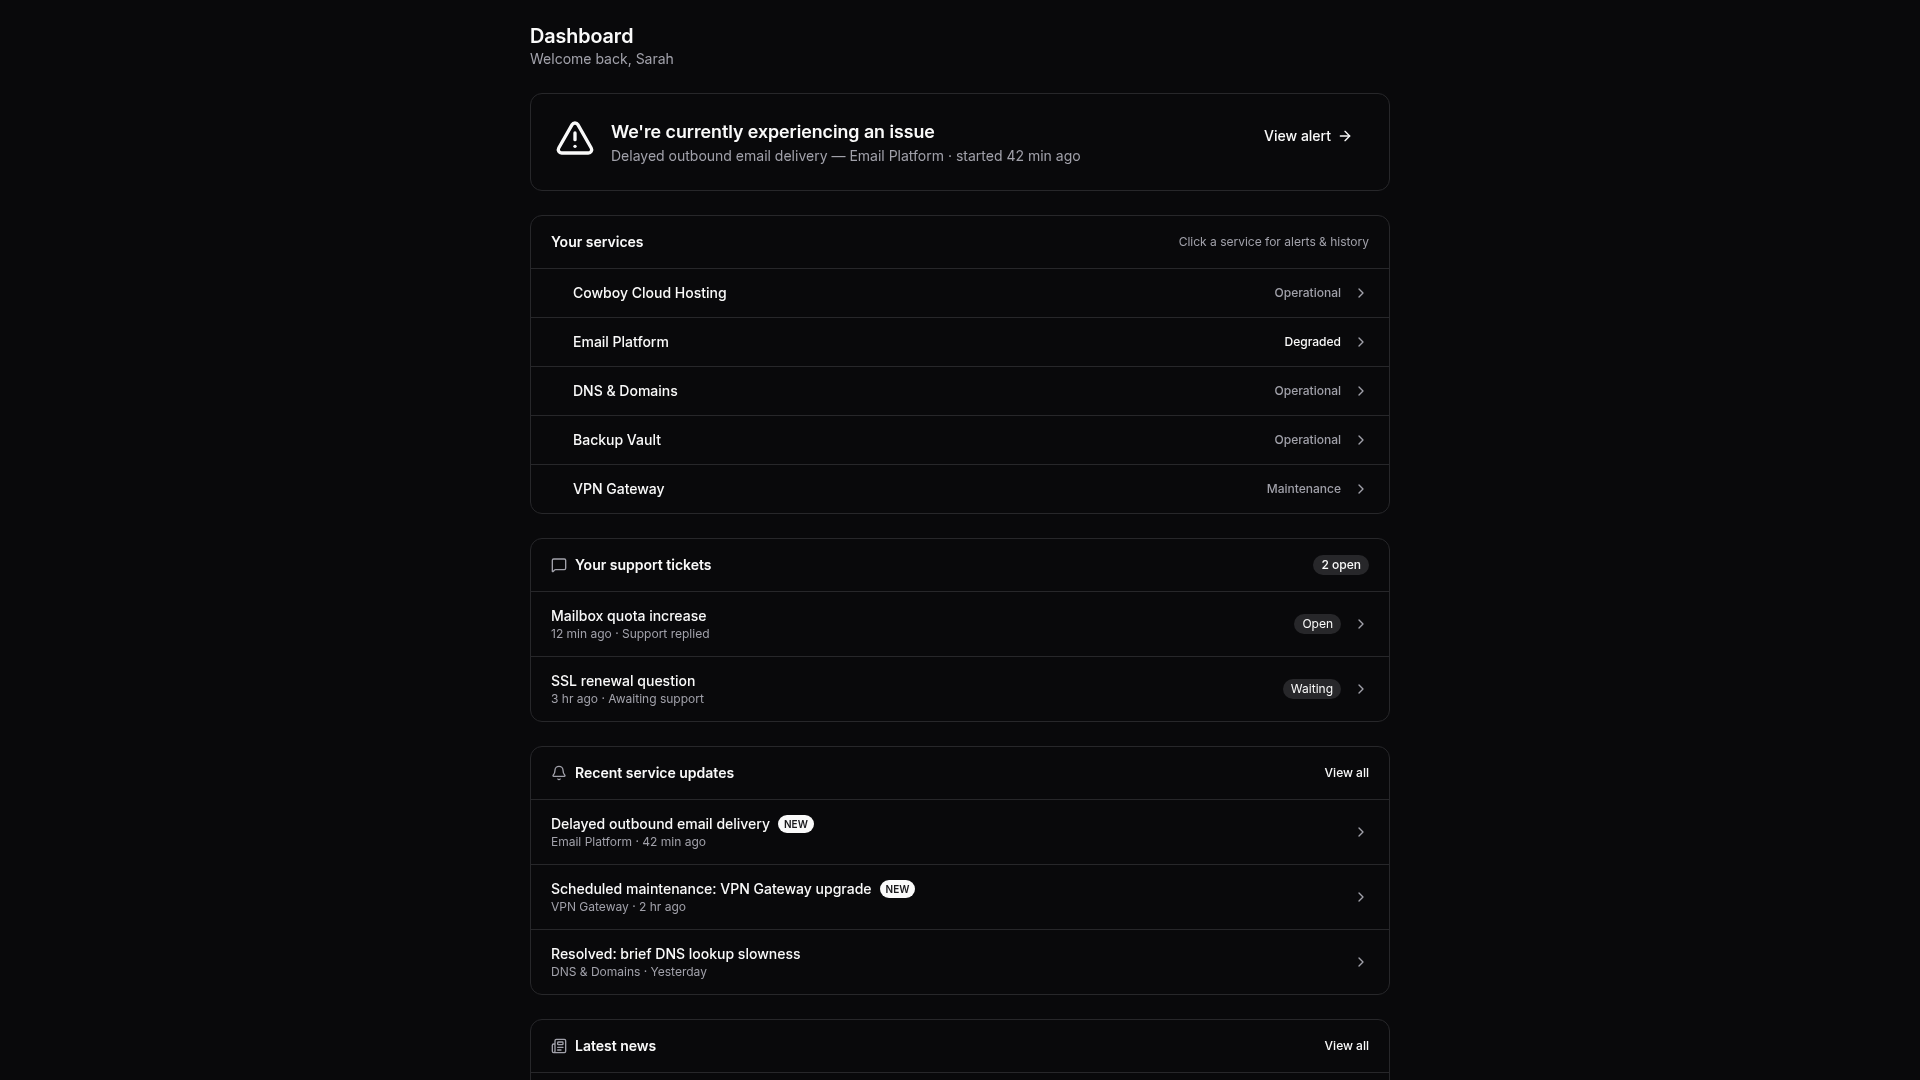
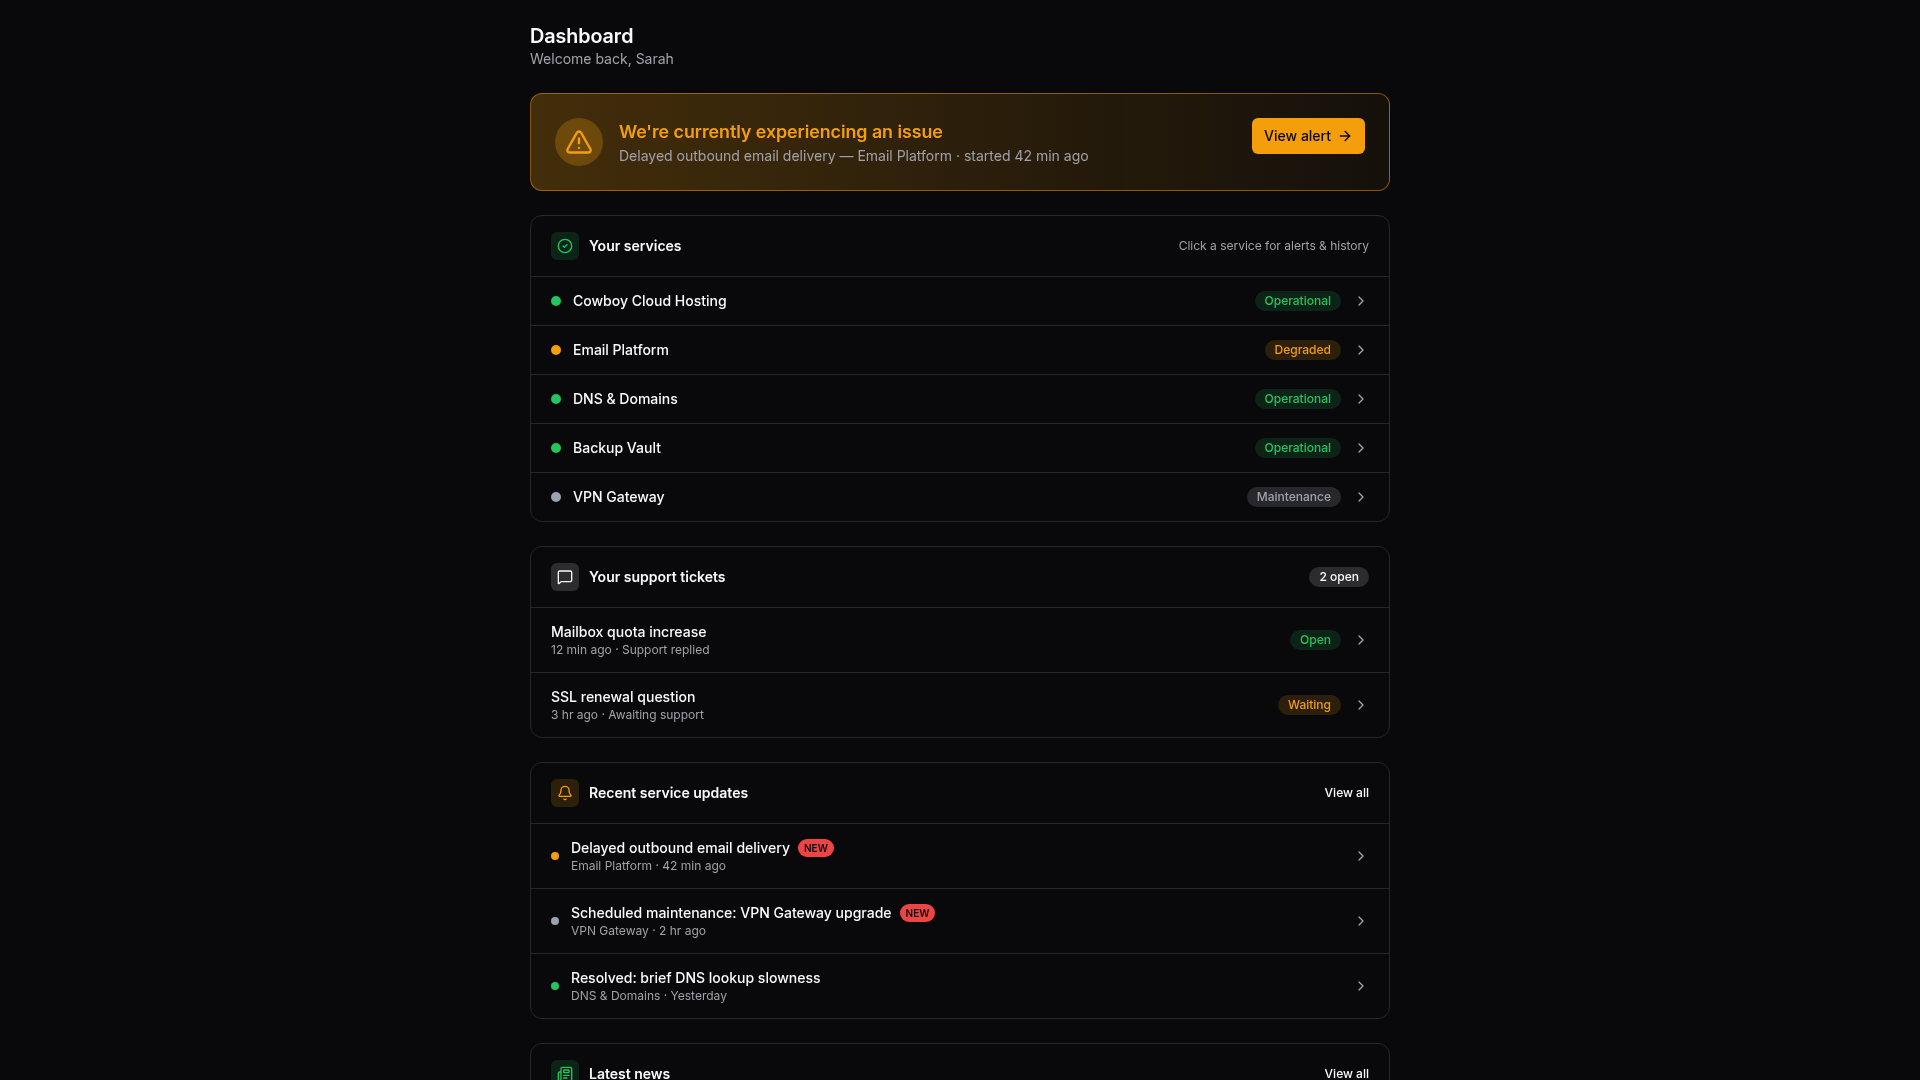
Add color accents and visual indicators to service status displays
Update HeroStack.tsx to use new status color tokens and add colored pills for service statuses, ticket statuses, and section icons. Update index.css to define missing status color tokens in the sandbox theme.

Replit-Commit-Author: Agent
Replit-Commit-Session-Id: 031383e8-37e1-48d9-ac85-29dcf789e9ce
Replit-Commit-Checkpoint-Type: full_checkpoint
Replit-Commit-Event-Id: e11772f9-e29c-46a5-b367-c7bff2973100
Replit-Commit-Screenshot-Url: https://storage.googleapis.com/screenshot-production-us-central1/ab026dec-2b21-4386-8a82-ad60aa66a512/031383e8-37e1-48d9-ac85-29dcf789e9ce/FnDSZTG
Replit-Helium-Checkpoint-Created: true

diff --git a/artifacts/mockup-sandbox/src/components/mockups/dashboard-v2/HeroStack.tsx b/artifacts/mockup-sandbox/src/components/mockups/dashboard-v2/HeroStack.tsx
@@ -17,20 +17,53 @@ import {
   type ServiceStatus,
 } from "./_data";
 
-const statusMeta: Record<ServiceStatus, { label: string; dot: string; text: string }> = {
-  operational: { label: "Operational", dot: "bg-status-online", text: "text-muted-foreground" },
-  degraded: { label: "Degraded", dot: "bg-status-away", text: "text-status-away" },
-  outage: { label: "Outage", dot: "bg-status-busy", text: "text-status-busy" },
-  maintenance: { label: "Maintenance", dot: "bg-status-offline", text: "text-muted-foreground" },
+const statusMeta: Record<
+  ServiceStatus,
+  { label: string; dot: string; pill: string }
+> = {
+  operational: {
+    label: "Operational",
+    dot: "bg-status-online",
+    pill: "bg-status-online/15 text-status-online",
+  },
+  degraded: {
+    label: "Degraded",
+    dot: "bg-status-away",
+    pill: "bg-status-away/15 text-status-away",
+  },
+  outage: {
+    label: "Outage",
+    dot: "bg-status-busy",
+    pill: "bg-status-busy/15 text-status-busy",
+  },
+  maintenance: {
+    label: "Maintenance",
+    dot: "bg-status-offline",
+    pill: "bg-status-offline/20 text-muted-foreground",
+  },
+};
+
+const ticketStatusPill: Record<string, string> = {
+  open: "bg-status-online/15 text-status-online",
+  waiting: "bg-status-away/15 text-status-away",
+  resolved: "bg-muted text-muted-foreground",
 };
 
 const serviceUpdates = [
-  { id: "u1", title: "Delayed outbound email delivery", service: "Email Platform", when: "42 min ago", isNew: true },
-  { id: "u2", title: "Scheduled maintenance: VPN Gateway upgrade", service: "VPN Gateway", when: "2 hr ago", isNew: true },
-  { id: "u3", title: "Resolved: brief DNS lookup slowness", service: "DNS & Domains", when: "Yesterday", isNew: false },
+  { id: "u1", title: "Delayed outbound email delivery", service: "Email Platform", when: "42 min ago", isNew: true, tone: "bg-status-away" },
+  { id: "u2", title: "Scheduled maintenance: VPN Gateway upgrade", service: "VPN Gateway", when: "2 hr ago", isNew: true, tone: "bg-status-offline" },
+  { id: "u3", title: "Resolved: brief DNS lookup slowness", service: "DNS & Domains", when: "Yesterday", isNew: false, tone: "bg-status-online" },
 ];
 
 const newsWithFlags = news.map((n, i) => ({ ...n, isNew: i === 0 }));
+
+function SectionIcon({ icon: Icon, tone }: { icon: typeof Bell; tone: string }) {
+  return (
+    <span className={`inline-flex h-7 w-7 items-center justify-center rounded-md ${tone}`}>
+      <Icon className="h-4 w-4" />
+    </span>
+  );
+}
 
 export function HeroStackPage({ allClear }: { allClear: boolean }) {
   const shownServices = services.filter((s) => s.subscribed);
@@ -52,10 +85,12 @@ export function HeroStackPage({ allClear }: { allClear: boolean }) {
         {/* Hero */}
         {allClear ? (
           <div
-            className="rounded-xl border border-status-online/40 bg-status-online/10 p-6 flex items-center gap-4"
+            className="rounded-xl border border-status-online/50 bg-gradient-to-r from-status-online/25 via-status-online/15 to-status-online/5 p-6 flex items-center gap-4"
             data-testid="hero-status"
           >
-            <CheckCircle2 className="h-10 w-10 text-status-online shrink-0" />
+            <span className="flex h-12 w-12 shrink-0 items-center justify-center rounded-full bg-status-online/25">
+              <CheckCircle2 className="h-7 w-7 text-status-online" />
+            </span>
             <div>
               <p className="text-lg font-semibold text-status-online">All services are running smoothly</p>
               <p className="text-sm text-muted-foreground">
@@ -65,11 +100,13 @@ export function HeroStackPage({ allClear }: { allClear: boolean }) {
           </div>
         ) : (
           <div
-            className="rounded-xl border border-status-away/40 bg-status-away/10 p-6"
+            className="rounded-xl border border-status-away/50 bg-gradient-to-r from-status-away/25 via-status-away/15 to-status-away/5 p-6"
             data-testid="hero-status"
           >
             <div className="flex items-start gap-4">
-              <AlertTriangle className="h-10 w-10 text-status-away shrink-0" />
+              <span className="flex h-12 w-12 shrink-0 items-center justify-center rounded-full bg-status-away/25">
+                <AlertTriangle className="h-7 w-7 text-status-away" />
+              </span>
               <div className="min-w-0 flex-1">
                 <p className="text-lg font-semibold text-status-away">
                   We're currently experiencing an issue
@@ -78,7 +115,7 @@ export function HeroStackPage({ allClear }: { allClear: boolean }) {
                   {firstAlert.title} — {firstAlert.serviceNames.join(", ")} · started {firstAlert.startedAgo}
                 </p>
               </div>
-              <button className="shrink-0 inline-flex items-center gap-1.5 rounded-md bg-status-away/20 px-3 py-2 text-sm font-medium text-status-away hover:bg-status-away/30">
+              <button className="shrink-0 inline-flex items-center gap-1.5 rounded-md bg-status-away px-3 py-2 text-sm font-medium text-background hover:bg-status-away/90">
                 View alert <ArrowRight className="h-4 w-4" />
               </button>
             </div>
@@ -86,9 +123,12 @@ export function HeroStackPage({ allClear }: { allClear: boolean }) {
         )}
 
         {/* Services */}
-        <section className="rounded-xl border border-border bg-card">
+        <section className="rounded-xl border border-border bg-card overflow-hidden">
           <div className="flex items-center justify-between px-5 py-4 border-b border-border">
-            <h2 className="text-sm font-semibold">Your services</h2>
+            <h2 className="text-sm font-semibold flex items-center gap-2.5">
+              <SectionIcon icon={CheckCircle2} tone="bg-status-online/15 text-status-online" />
+              Your services
+            </h2>
             <span className="text-xs text-muted-foreground">Click a service for alerts &amp; history</span>
           </div>
           <ul className="divide-y divide-border">
@@ -99,7 +139,9 @@ export function HeroStackPage({ allClear }: { allClear: boolean }) {
                   <button className="w-full flex items-center gap-3 px-5 py-3.5 text-left hover:bg-muted/50">
                     <span className={`h-2.5 w-2.5 rounded-full ${meta.dot} shrink-0`} />
                     <span className="flex-1 min-w-0 truncate text-sm font-medium">{s.name}</span>
-                    <span className={`text-xs font-medium ${meta.text}`}>{meta.label}</span>
+                    <span className={`rounded-full px-2.5 py-0.5 text-xs font-medium ${meta.pill}`}>
+                      {meta.label}
+                    </span>
                     <ChevronRight className="h-4 w-4 text-muted-foreground shrink-0" />
                   </button>
                 </li>
@@ -109,13 +151,16 @@ export function HeroStackPage({ allClear }: { allClear: boolean }) {
         </section>
 
         {/* Tickets */}
-        <section className="rounded-xl border border-border bg-card">
+        <section className="rounded-xl border border-border bg-card overflow-hidden">
           <div className="flex items-center justify-between px-5 py-4 border-b border-border">
-            <h2 className="text-sm font-semibold flex items-center gap-2">
-              <MessageSquare className="h-4 w-4 text-muted-foreground" /> Your support tickets
+            <h2 className="text-sm font-semibold flex items-center gap-2.5">
+              <SectionIcon icon={MessageSquare} tone="bg-primary/15 text-primary" />
+              Your support tickets
             </h2>
             {openTickets.length > 0 && (
-              <span className="rounded-full bg-muted px-2 py-0.5 text-xs font-medium">{openTickets.length} open</span>
+              <span className="rounded-full bg-primary/15 px-2.5 py-0.5 text-xs font-medium text-primary">
+                {openTickets.length} open
+              </span>
             )}
           </div>
           {openTickets.length === 0 ? (
@@ -136,7 +181,9 @@ export function HeroStackPage({ allClear }: { allClear: boolean }) {
                         {t.lastActivity} · {t.lastMessageFrom === "support" ? "Support replied" : "Awaiting support"}
                       </p>
                     </div>
-                    <span className="rounded-full bg-muted px-2 py-0.5 text-xs capitalize">{t.status}</span>
+                    <span className={`rounded-full px-2.5 py-0.5 text-xs font-medium capitalize ${ticketStatusPill[t.status]}`}>
+                      {t.status}
+                    </span>
                     <ChevronRight className="h-4 w-4 text-muted-foreground shrink-0" />
                   </button>
                 </li>
@@ -146,10 +193,11 @@ export function HeroStackPage({ allClear }: { allClear: boolean }) {
         </section>
 
         {/* Service updates */}
-        <section className="rounded-xl border border-border bg-card">
+        <section className="rounded-xl border border-border bg-card overflow-hidden">
           <div className="flex items-center justify-between px-5 py-4 border-b border-border">
-            <h2 className="text-sm font-semibold flex items-center gap-2">
-              <Bell className="h-4 w-4 text-muted-foreground" /> Recent service updates
+            <h2 className="text-sm font-semibold flex items-center gap-2.5">
+              <SectionIcon icon={Bell} tone="bg-status-away/15 text-status-away" />
+              Recent service updates
             </h2>
             <button className="text-xs font-medium text-primary hover:underline">View all</button>
           </div>
@@ -157,11 +205,12 @@ export function HeroStackPage({ allClear }: { allClear: boolean }) {
             {(allClear ? serviceUpdates.map((u) => ({ ...u, isNew: false })) : serviceUpdates).map((u) => (
               <li key={u.id}>
                 <button className="w-full flex items-center gap-3 px-5 py-3.5 text-left hover:bg-muted/50">
+                  <span className={`h-2 w-2 rounded-full ${u.tone} shrink-0`} />
                   <div className="flex-1 min-w-0">
                     <p className="truncate text-sm font-medium flex items-center gap-2">
                       {u.title}
                       {u.isNew && (
-                        <span className="rounded-full bg-primary px-1.5 py-0.5 text-[10px] font-semibold uppercase text-primary-foreground">
+                        <span className="rounded-full bg-status-busy px-1.5 py-0.5 text-[10px] font-semibold uppercase text-background">
                           New
                         </span>
                       )}
@@ -176,10 +225,11 @@ export function HeroStackPage({ allClear }: { allClear: boolean }) {
         </section>
 
         {/* News */}
-        <section className="rounded-xl border border-border bg-card">
+        <section className="rounded-xl border border-border bg-card overflow-hidden">
           <div className="flex items-center justify-between px-5 py-4 border-b border-border">
-            <h2 className="text-sm font-semibold flex items-center gap-2">
-              <Newspaper className="h-4 w-4 text-muted-foreground" /> Latest news
+            <h2 className="text-sm font-semibold flex items-center gap-2.5">
+              <SectionIcon icon={Newspaper} tone="bg-status-online/15 text-status-online" />
+              Latest news
             </h2>
             <button className="text-xs font-medium text-primary hover:underline">View all</button>
           </div>
@@ -187,12 +237,14 @@ export function HeroStackPage({ allClear }: { allClear: boolean }) {
             {newsWithFlags.map((n) => (
               <li key={n.id}>
                 <button className="w-full flex items-start gap-3 px-5 py-3.5 text-left hover:bg-muted/50">
-                  <span className="mt-0.5 shrink-0 text-xs text-muted-foreground w-10">{n.date}</span>
+                  <span className="mt-0.5 shrink-0 rounded-md bg-primary/15 px-1.5 py-0.5 text-[11px] font-medium text-primary">
+                    {n.date}
+                  </span>
                   <div className="flex-1 min-w-0">
                     <p className="truncate text-sm font-medium flex items-center gap-2">
                       {n.title}
                       {n.isNew && (
-                        <span className="rounded-full bg-primary px-1.5 py-0.5 text-[10px] font-semibold uppercase text-primary-foreground">
+                        <span className="rounded-full bg-status-busy px-1.5 py-0.5 text-[10px] font-semibold uppercase text-background">
                           New
                         </span>
                       )}

diff --git a/artifacts/mockup-sandbox/src/index.css b/artifacts/mockup-sandbox/src/index.css
@@ -27,6 +27,10 @@
   --color-border: hsl(var(--border));
   --color-input: hsl(var(--input));
   --color-ring: hsl(var(--ring));
+  --color-status-online: rgb(34 197 94);
+  --color-status-away: rgb(245 158 11);
+  --color-status-busy: rgb(239 68 68);
+  --color-status-offline: rgb(156 163 175);
   --color-chart-1: hsl(var(--chart-1));
   --color-chart-2: hsl(var(--chart-2));
   --color-chart-3: hsl(var(--chart-3));
